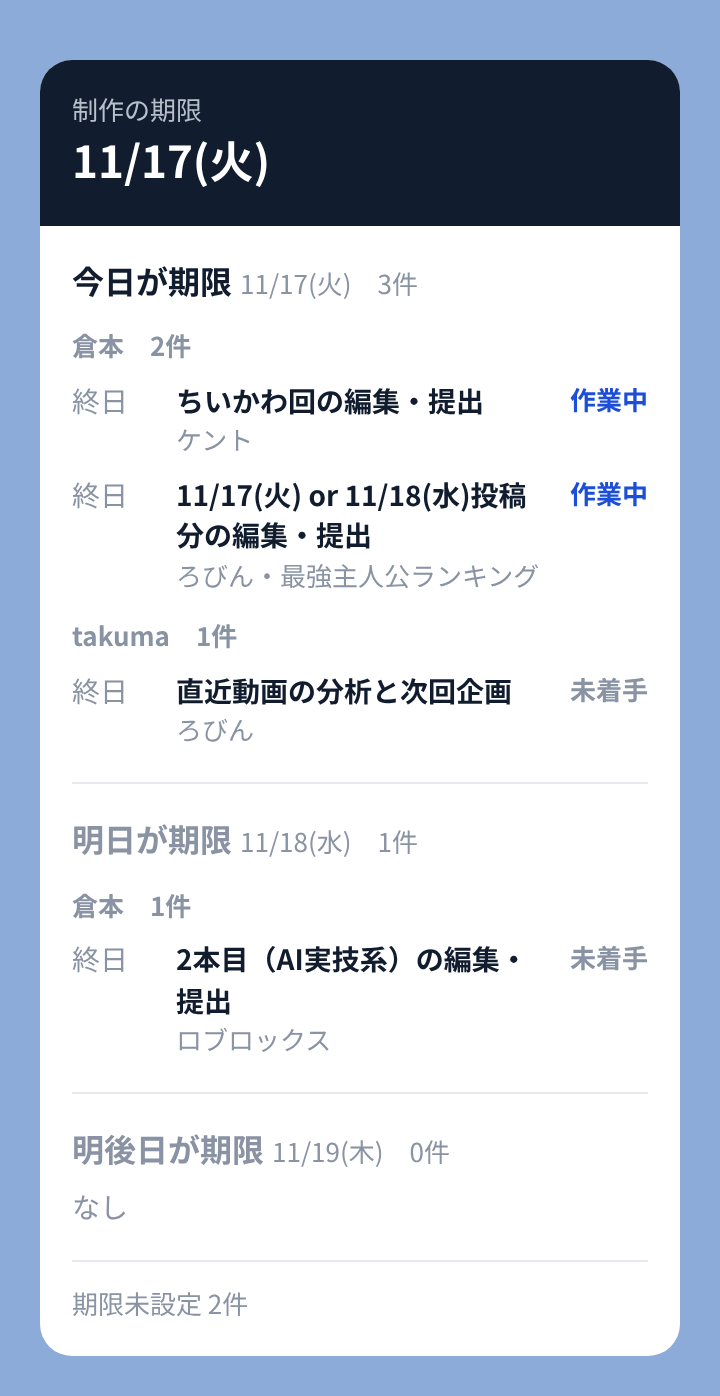
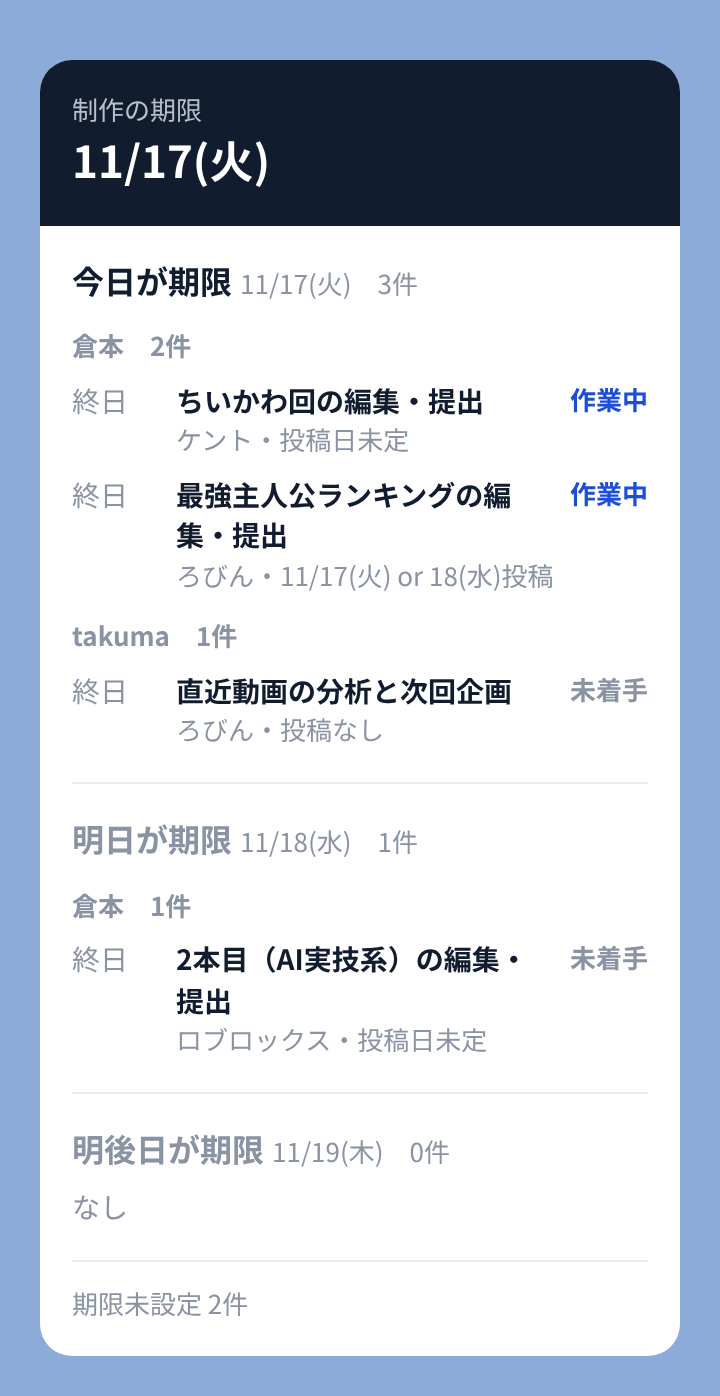
通知カードの2行目を「案件・投稿日」の形に揃える
1行目は「動画名の作業」、2行目は「案件・投稿日（未定／なし）」に固定する。
同じ月の2つの投稿日は「11/17(火) or 18(水)」と短く書く。

Claude-Session: https://claude.ai/code/session_01E3h3wpULDjhoV5gFQ19wFG

Changed region(s): [[0.2444, 0.308, 0.7639, 0.4312], [0.4889, 0.7393, 0.6722, 0.7701], [0.3972, 0.4928, 0.4583, 0.5544]]

diff --git a/test/code.test.js b/test/code.test.js
@@ -191,13 +191,25 @@ test('投稿予定日を2つ書ける', () => {
   assert.equal(t.postDate, '2026-11-17');
   assert.equal(t.postDate2, '2026-11-18');
   const text = gas.buildMorningMessage([t], '2026-11-17', '');
-  assert.match(text, /ろびん／11\/17\(火\) or 11\/18\(水\)投稿分（最強主人公ランキング） 編集・提出/);
+  assert.match(text, /ろびん／11\/17\(火\) or 18\(水\)投稿分（最強主人公ランキング） 編集・提出/);
   const card = JSON.stringify(gas.buildFlexMessage([t], '2026-11-17', {}));
-  assert.ok(card.includes('11/17(火) or 11/18(水)投稿分の編集・提出'));
+  assert.ok(card.includes('最強主人公ランキングの編集・提出'));
+  assert.ok(card.includes('ろびん・11/17(火) or 18(水)投稿'));
   values[1][7] = '2026/11/17か11/18'; // 「か」で書いても読める
   assert.equal(gas.parseRows(values, '2026-11-17')[0].postDate2, '2026-11-18');
   values[1][7] = '2026/11/17OR11/18';
   assert.equal(gas.parseRows(values, '2026-11-17')[0].postDate2, '2026-11-18');
   values[1][7] = '2026/11/17';
   assert.equal(gas.parseRows(values, '2026-11-17')[0].postDate2, '');
+});
+
+test('カードの2行目は「案件・投稿日」に揃う', () => {
+  const values = [HEADER,
+    row('ケント', 'ちいかわ回', '編集・提出', '倉本', '2026/11/17', '', '作業中'),
+    row('ろびん', '直近動画の分析と次回企画', 'その他', 'takuma', '2026/11/17', '', '未着手'),
+    row('ロブロックス', '2本目（AI実技系）', '編集・提出', '倉本', '2026/11/18', '', '未着手')];
+  values[3][7] = '2026/11/20';
+  const card = JSON.stringify(gas.buildFlexMessage(gas.parseRows(values, '2026-11-17'), '2026-11-17', {}));
+  ['ちいかわ回の編集・提出', 'ケント・投稿日未定', '直近動画の分析と次回企画', 'ろびん・投稿なし', '2本目（AI実技系）の編集・提出', 'ロブロックス・11/20(金)投稿']
+    .forEach(s => assert.ok(card.includes(s), s));
 });
